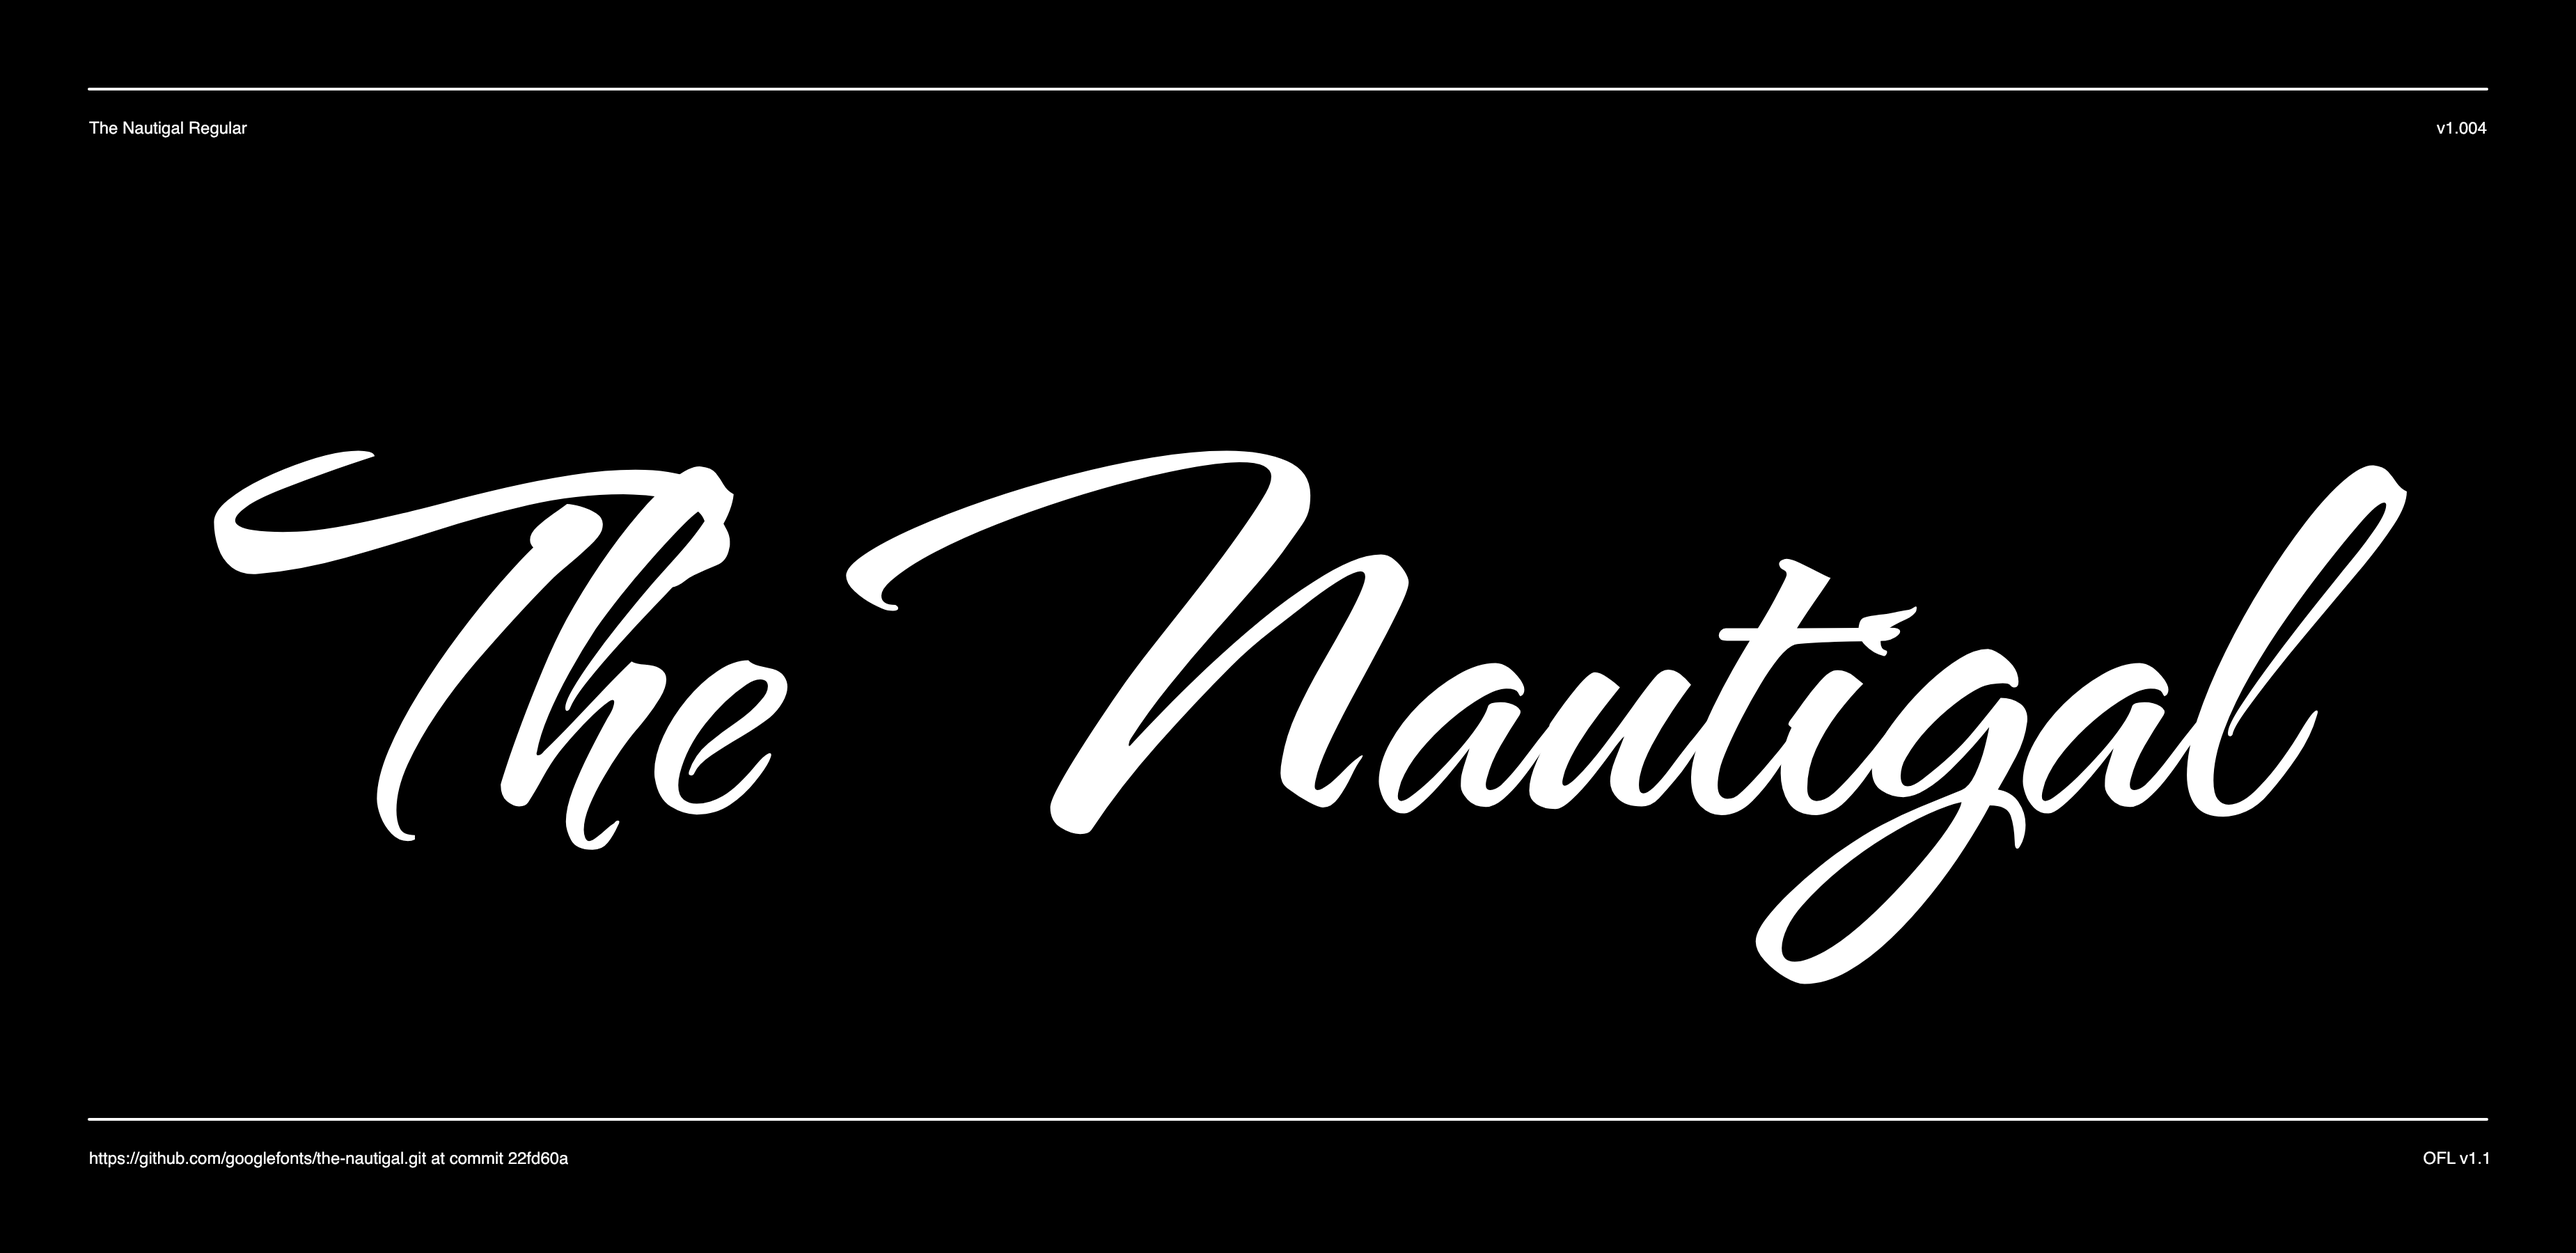
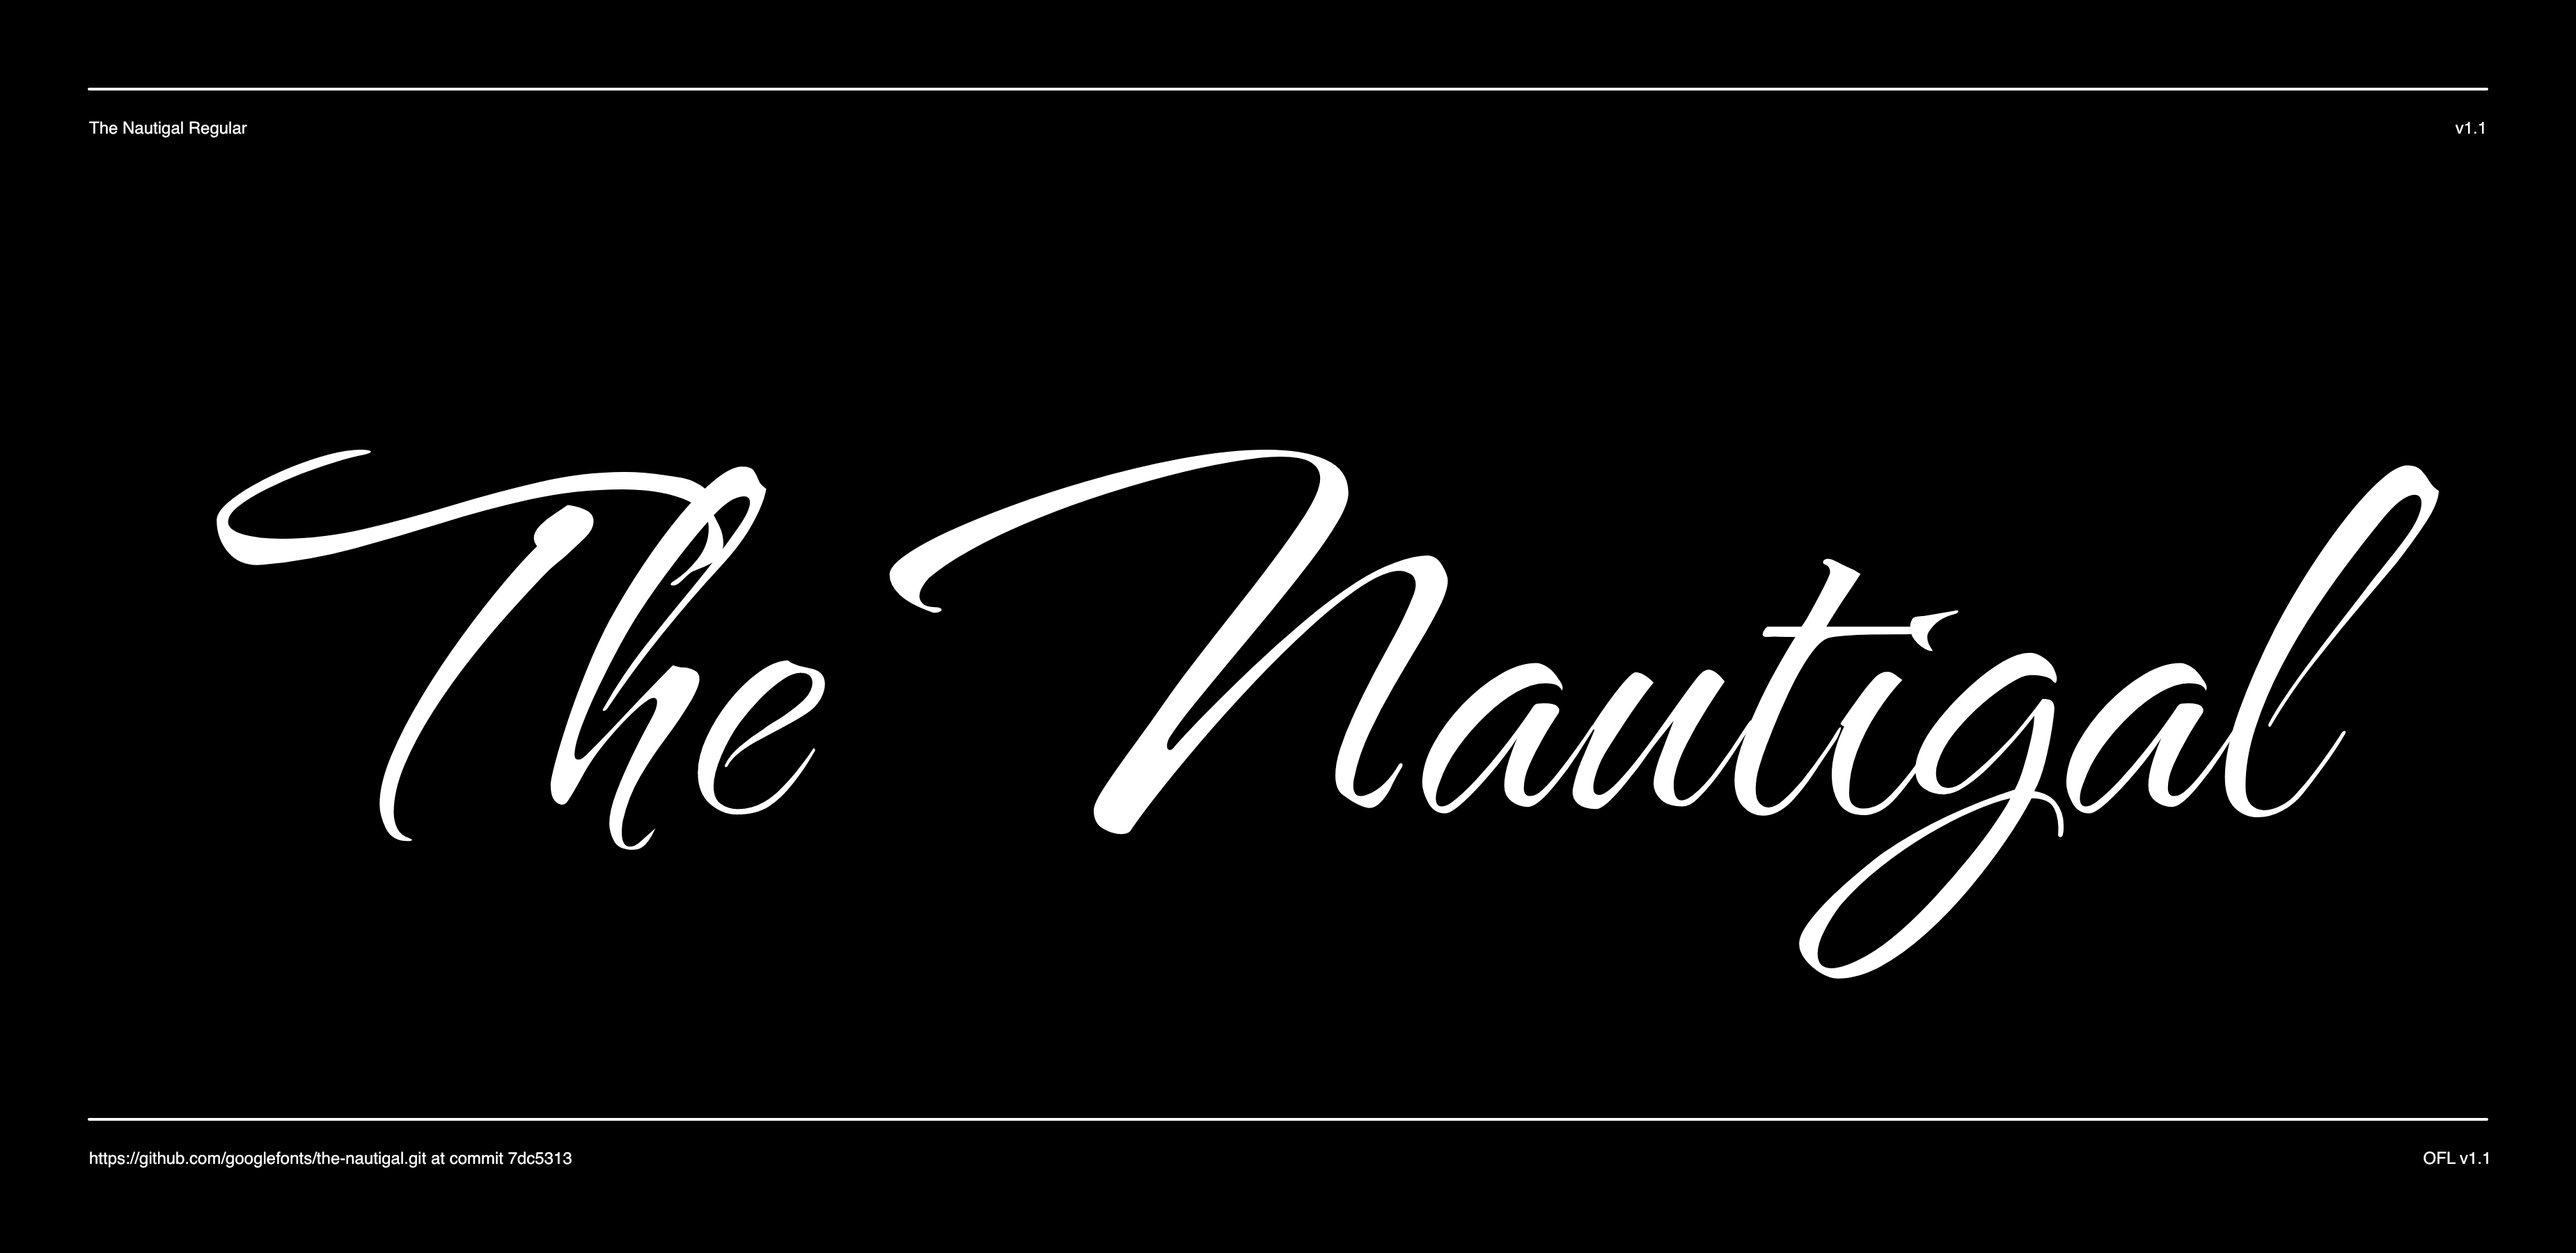
Readme text + sample image updated

diff --git a/README.md b/README.md
@@ -1,6 +1,6 @@
 # The Nautigal
 
-Inspired by the hand lettering design for a friend’s yacht, this contemporary script style, TheNautiGal is sexy yet formal with beautiful connectors.
+Inspired by the hand lettering design for a friend’s yacht, this contemporary script style, The Nautigal is fluid yet formal with beautiful connectors.
 
 ![Sample Image](Documentation/image1.png)
 
